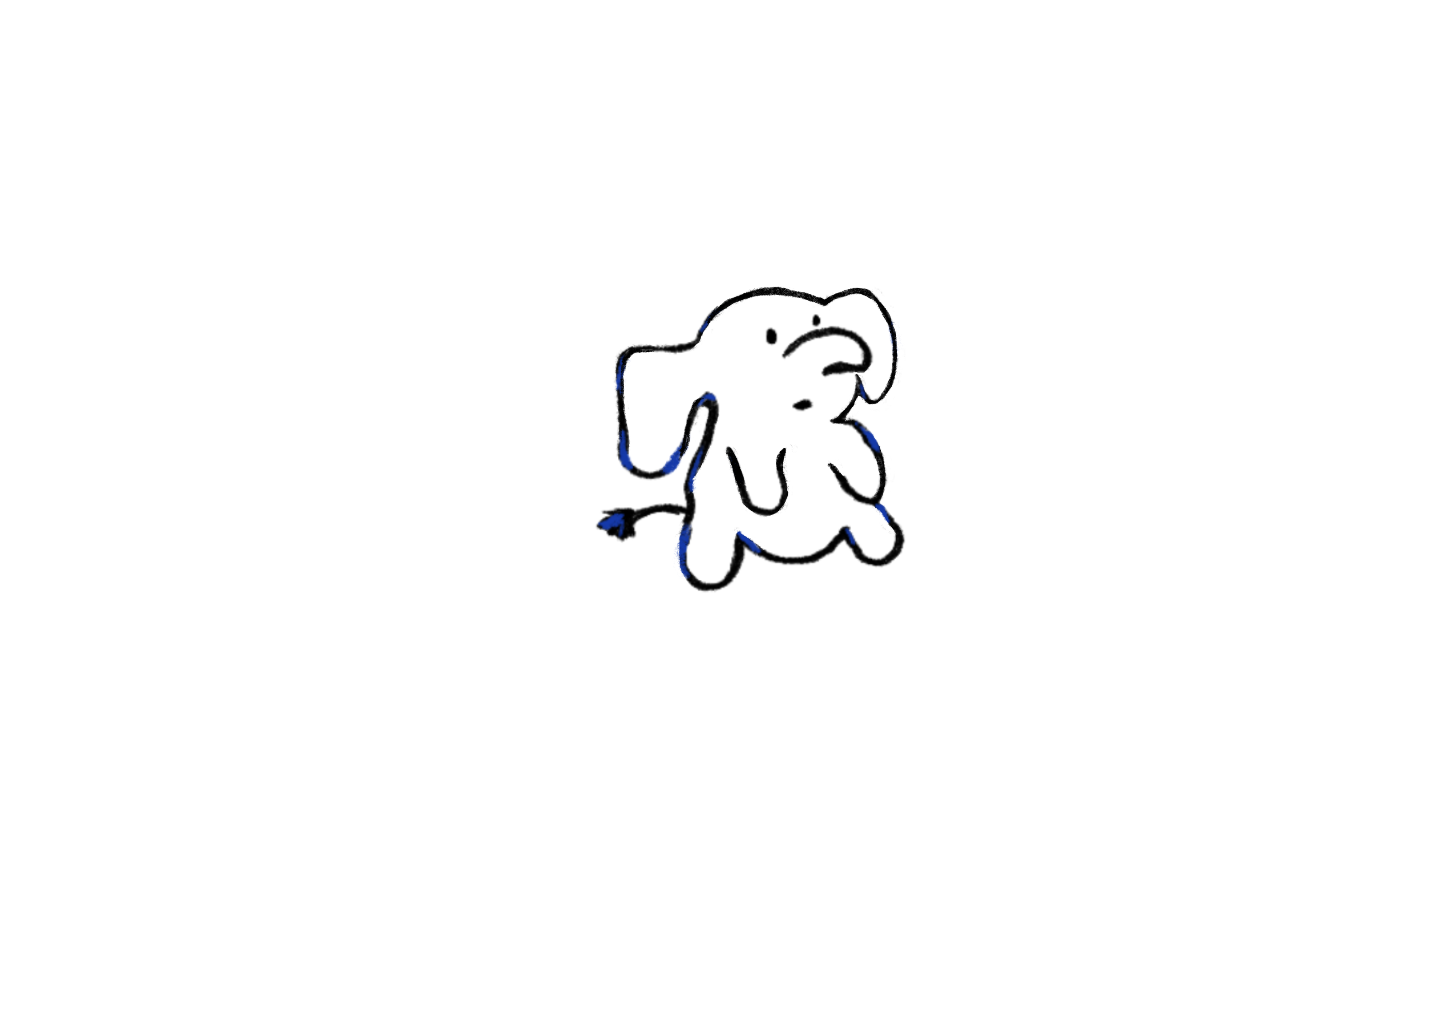
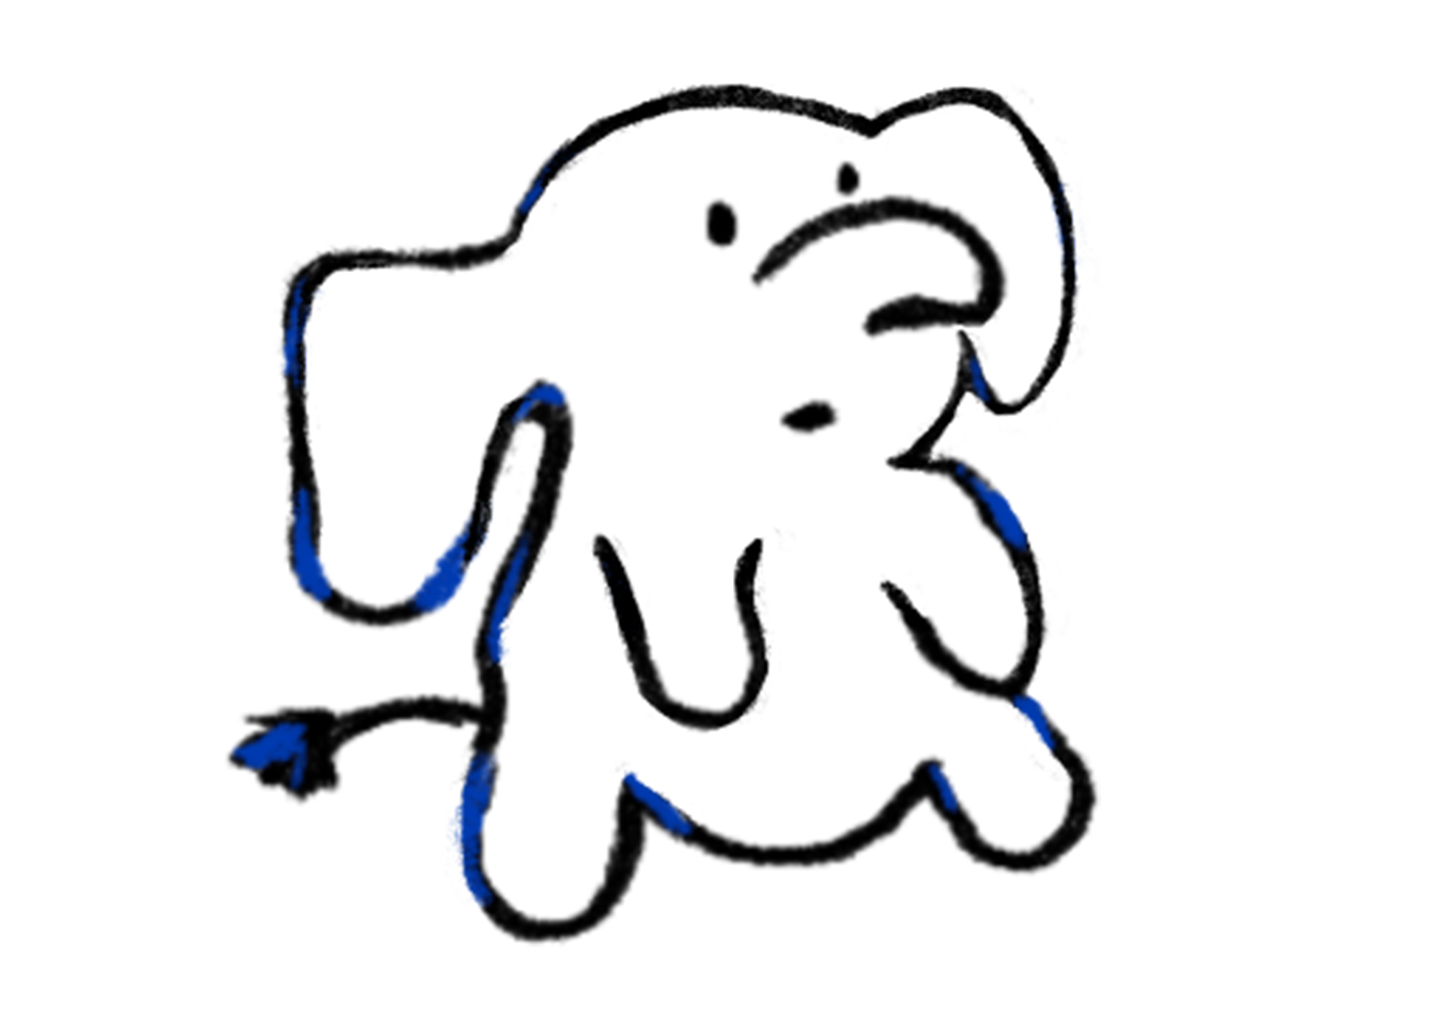
10.30

Changed region(s): [[0.1562, 0.0625, 0.7812, 0.9375], [0.4375, 0.3125, 0.5, 0.3438]]

diff --git a/entries/entry3/style.css b/entries/entry3/style.css
@@ -20,12 +20,29 @@ h1{
 }
 .square{
     text-align: center;
+    width: 90%;
+    margin-left: auto;
+    margin-right: auto;
+    position: absolute;
+    top: 0;
+    left: 50%;
+    transform: translate(-50%);
+    z-index: 0;
+
 }
-.texture img{
-    width: 1283px;
-    height: 912px;
+.texture{
+    width: 100%;
+}
+.texture img {
+    width: 100%;
+    height: auto; 
 }
 
+.heading{
+   display: flex;
+   position: relative;
+    z-index: 1;
+}
 .box{
     max-width: 100%;
     height: 100%;
@@ -37,67 +54,29 @@ h1{
     max-width: 10%;
     padding: 0 10px;
 }
-
-.image-elephant {
-    /* max-width: 10%; */
-    padding: 0 10px;
-    position: absolute;
-    top: 100px; 
-    height: 50%; 
-    width: 200px; 
-    left: 100px;
+img{
+    width: 500px;
 }
-
-.image-speaker {
-    padding: 0 10px;
+.parent {   
+    width: 100%;
+    height: 100%;
+    margin-left: auto;
+    margin-right: auto;
     position: absolute;
-    top: 400px; 
-    left: 1300px;
+    z-index: 1;
+    top: 0;    
+    display: grid; 
+    grid-template-columns: repeat(12, 1fr); 
+    grid-template-rows: repeat(12, 1fr); 
+    grid-column-gap: 0px;
+    grid-row-gap: 0px; 
 }
-
-.image-headphone {
-    padding: 0 10px;
-    position: absolute;
-    top: 100px; 
-    left: 200px;
-}
-
-.image-card {
-    padding: 0 10px;
-    position: absolute;
-    top: 400px; 
-    left: 600px;
-}
-
-.image-hat {
-    padding: 0 10px;
-    position: absolute;
-    top: 450px;
-    left: 700px;
-}
-
-.image-camera {
-    padding: 0 10px;
-    position: absolute;
-    top: 600px; 
-    left: 1400px;
-}
-
-.image-crayon {
-    padding: 0 10px;
-    position: absolute;
-    top: 700px;
-    left: 900px;
-}
-
-.image-pot {
-    padding: 0 10px;
-    position: absolute;
-    top: 700px;
-}
-
-.image-plant {
-    padding: 0 10px;
-    position: absolute;
-    top: 250px; left: 450px;
-}
+.div1 { grid-area: 5 / 2 / 7 / 4; } 
+.div2 { grid-area: 4 / 5 / 6 / 7; } 
+.div3 { grid-area: 4 / 10 / 6 / 12; } 
+.div4 { grid-area: 6 / 8 / 8 / 10; } 
+.div5 { grid-area: 8 / 4 / 10 / 6; } 
+.div6 { grid-area: 10 / 2 / 12 / 4; } 
+.div7 { grid-area: 10 / 5 / 12 / 7; } 
+.div8 { grid-area: 10 / 10 / 12 / 12; } 
+.div9 { grid-area: 9 / 7 / 11 / 9; } 

diff --git a/entries/entry3/index.html b/entries/entry3/index.html
@@ -10,32 +10,28 @@
     <br>
     <br>
 <div class="heading">
-    <div class="en"><h1>Linsay Yin</h1></div>
+    <div class="en"><h1>Linsay&nbsp;Yin</h1></div>
     <img src="pinkstar.png" alt="">
-    <div class="cn"></div><h1>Fugui Yin</h1>
+    <div class="cn"></div><h1>Fugui&nbsp;Yin</h1>
 </div>
-    <br>
-    <hr style="height: 5px; background-color: #D43182; border: 0;">
+    <hr style="height: 7px; background-color: #D43182; border: 0; z-index: 1; position: relative; width: 90%; margin-left: auto; margin-right: auto;">
     <br>
     <br>
     <div class="square">
         <div class="texture">
             <img src="background.png" alt="">
         </div>
-    </div>
+     <div class="parent"> 
+        <div class="div1"><img src="imagine/5.png" alt=""></div>
+        <div class="div2"><img src="imagine/6.png" alt=""></div>
+        <div class="div3"><img src="imagine/2.png" alt=""></div>
+        <div class="div4"><img src="imagine/3.png" alt=""></div>
+        <div class="div5"><img src="imagine/7.png" alt=""></div>
+        <div class="div6"><img src="imagine/1.png" alt=""></div>
+        <div class="div7"><img src="imagine/9.png" alt=""></div>
+        <div class="div8"><img src="imagine/4.png" alt=""></div>
+        <div class="div9"><img src="imagine/8.png" alt=""></div>
+     </div>
     
-    <div class="box">
-        <div class="image-elephant"><img src="imagine/1.png" alt=""></div>
-        <div class="image-speaker"><img src="imagine/2.png" alt=""></div>
-        <div class="image-headphone"><img src="imagine/3.png" alt=""></div>
-        <div class="image-card"><img src="imagine/4.png" alt=""></div>
-        <div class="image-hat"><img src="imagine/5.png" alt=""></div>
-        <div class="image-camera"><img src="imagine/6.png" alt=""></div>
-        <div class="image-crayon"><img src="imagine/7.png" alt=""></div>
-        <div class="image-pot.image-pot"><img src="imagine/8.png" alt=""></div>
-        <div class="image-plant"><img src="imagine/9.png" alt=""></div>
-    </div>
-
-
 </body>
 </html>

diff --git a/entries/entry6/style.css b/entries/entry6/style.css
@@ -18,10 +18,14 @@ h1{
     font-style: normal;
     font-weight: 400;
     line-height: normal;
+    text-align: center;
 }
 
 .square{
     text-align: center;
+    width: 70%;
+    margin-left: auto;
+    margin-right: auto;
     
 
 }
@@ -33,13 +37,23 @@ h1{
     max-width: 100%;
     height: auto; 
 }
-
+.cn{
+    display: flex;
+    align-items: center;
+    justify-content: center;
+}
+.en{
+    display: flex;
+    align-items: center;
+    justify-content: center;
+}
 .heading{
     display: flex;
     flex-direction: row;
     justify-content: space-between;
-    margin-left: 180px;
-    margin-right: 180px;
+    margin-left: auto;
+    margin-right: auto;
+    width: 70%;
     padding: 10px;
 }
 /* .heading img{
@@ -96,7 +110,7 @@ p {
     margin-top: -35%;
 }
 
-@media screen and (max-width: 768px) {
+@media only screen and (max-width: 1400px) {
     .heading {
         flex-direction: column;
         align-items: center;
@@ -107,5 +121,8 @@ p {
     }
     p {
         font-size: 1rem;
+    }
+    h1{
+        font-size: 20px;
     }
 }

diff --git a/entries/entry6/index.html b/entries/entry6/index.html
@@ -12,7 +12,7 @@
 <div class="heading">
     <div class="en"><h1>Linsay&nbsp;Yin</h1></div>
     <img src="pinkstar.png" alt="">
-    <div class="cn"></div><h1>Fugui&nbsp;Yin</h1>
+    <div class="cn"><h1>Fugui&nbsp;Yin</h1></div>
 </div>
     <hr style="height: 5px; background-color: #D43182; border: 0;">
     <br>
